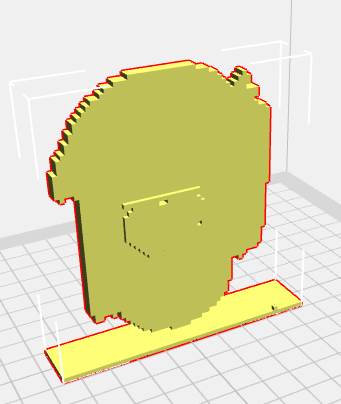
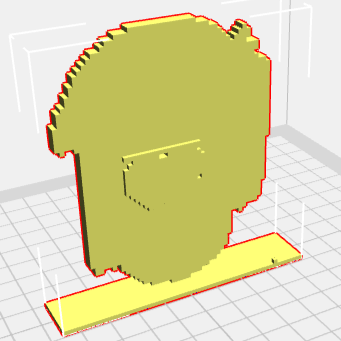
jhkh

diff --git a/portfolio/3dprint.html b/portfolio/3dprint.html
@@ -37,19 +37,29 @@
 	</ul>
 <div class="container-fluid">
 <div class="container pt-5"></div>
-	<h1 class="text-center text-white">Glitch Art- Chronology</h1>
+	<h1 class="text-center text-white">3D Print- Muscle Man</h1>
 </div>
 <div class="container-fluid">
 	<div class="container pt-5"></div>
 <div class="row">
-  <div class="col"><img src="big bang1.png" class=="mx-auto d-block"></div>
-  <div class="col"><img src="big bang,early humans.png" class=="mx-auto d-block"></div>
-  <div class="col"><img src="big bang,early humans, silicone valley copy.png" class=="mx-auto d-block"></div>
+  <div class="col"><img src="muscleman3dprint.png" class=="img-thumbnail mx-auto d-block"></div>
+  <div class="col"><img src="mmprint.jpg" class=="img-thumbnail mx-auto d-block"></div>
+</div>
+<div class="container-fluid">	
+		<div class="container pt-5"></div>
+		<h3 class="text-center text-white">Statement</h3>
 </div>
 	<div class="container-fluid">	
 		<div class="container pt-5"></div>
-	<p class="text-center text-white"> Statement: Chronology is a work which conveys the origins of humanity and it's developments over time. The work functions as a series or the final compilation of images. Through gradual addition of color, Chronology suggests that we slowly developed the characteristics that make us human. We were once nothing. We then existed simply and animalistically--our purpose to survive and reproduce. Finally, eons later, we are able to exist in a reality were we can indulge ourselves and see the world in technicolor.</p>
+	<p class="text-center text-white">Aside from the significance Regular Show had on me and my generation, I find it's creator, J.G. Quintel, to be one of my inspirations. In an interview he did with Hot Topic, he expressed that since he was little all he ever wanted to do was draw. I feel that as Artists, many people expect us to get "serious" jobs. But for me, Quintel, and really all artists, it's important that we stick with our passions, refine our talents, and share them with the world as a means of communicating the human experience in meaningful ways. I 3D printed my Minecraft build, and it serves now as an homage to Quintel, and as a reminder to myself that if I work hard, I can be successful while doing what I love.</p>
 	</div>
+<div class="container-fluid">	
+		<div class="container pt-5"></div>
+		<h3 class="text-center text-white">Process</h3>
 </div>
+<div class="container-fluid">	
+		<div class="container pt-5"></div>
+	<p class="text-center text-white">Process: I captured the build I made of Muscle Man using mineways, and was able to save the image as an stl file, which I was able to 3D print.</p>
+	</div>
 </body>
 </html>
